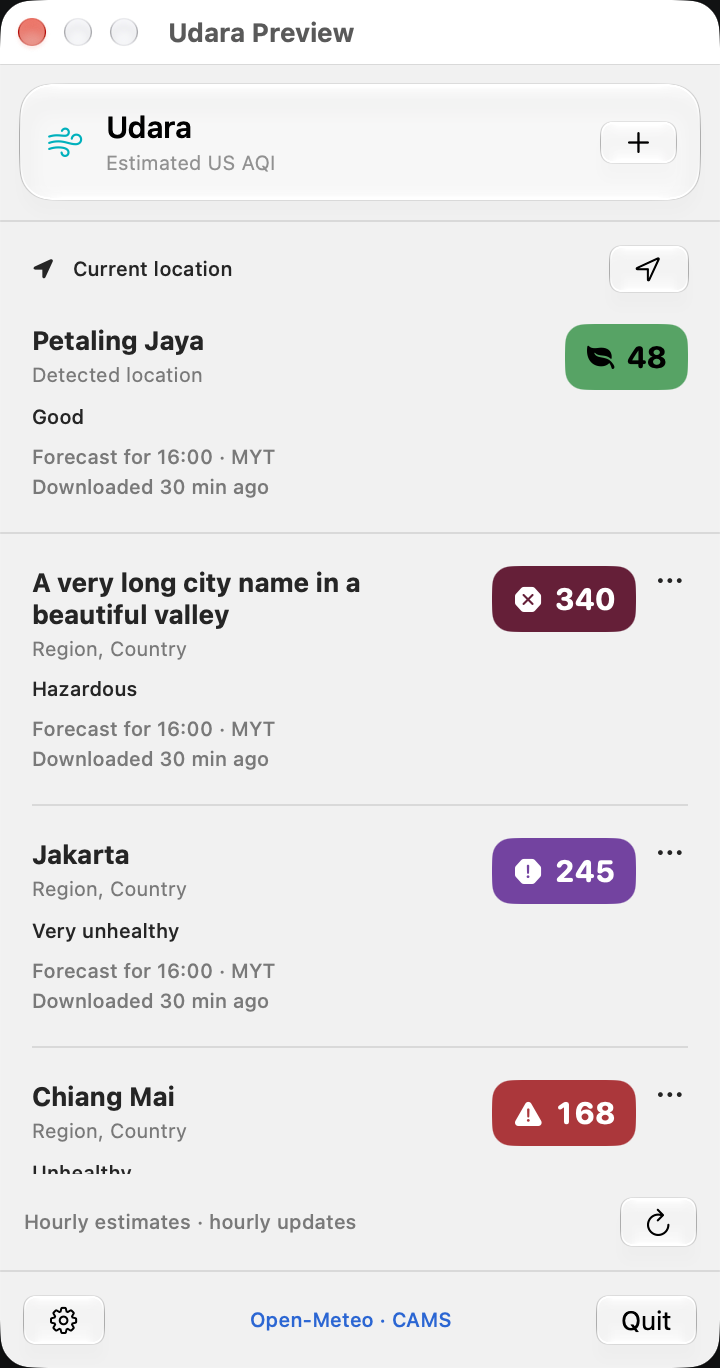
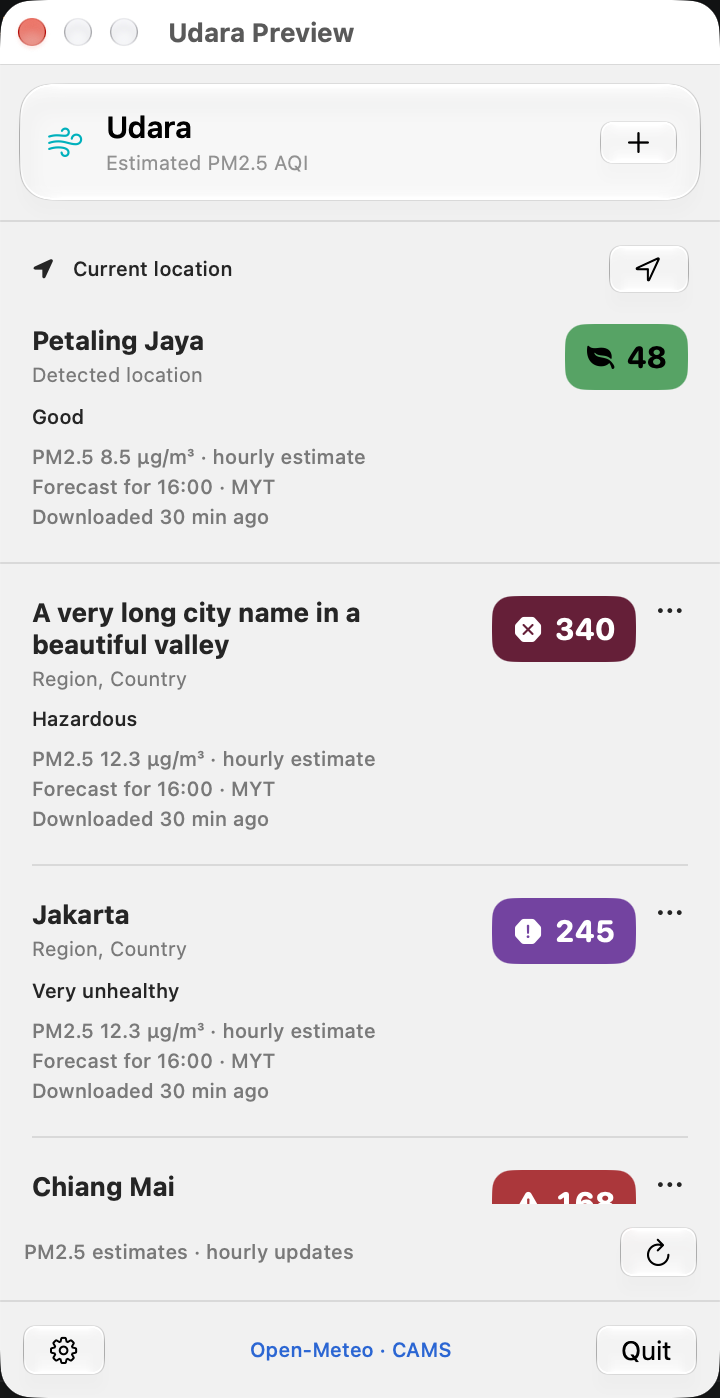
feat: focus on PM2.5 AQI and refine app presentation

diff --git a/Sources/UdaraApp/CitySearchView.swift b/Sources/UdaraApp/CitySearchView.swift
@@ -47,28 +47,41 @@ struct CitySearchView: View {
 struct SettingsContent: View {
     @Bindable var store: AppStore
     var body: some View {
-        VStack(alignment: .leading, spacing: 16) {
-            Label("Air quality, quietly close", systemImage: "wind").font(.headline)
-            Text("Udara shows model-estimated US AQI. Forecasts may differ from nearby monitoring stations.")
-            Picker("Menu bar icon", selection: Binding(
-                get: { store.menuBarIconStyle },
-                set: { style in Task { await store.setMenuBarIconStyle(style) } }
-            )) {
-                ForEach(MenuBarIconStyle.allCases, id: \.self) { style in
-                    Text(style.title).tag(style)
-                }
-            }.pickerStyle(.segmented).accessibilityIdentifier("menuBarIconStyle")
-            Text("The number shows the highest available AQI across your current location and saved cities.")
-                .foregroundStyle(.secondary)
-            LabeledContent("Downloads", value: "Every hour")
-            LabeledContent("Display", value: "Current hourly estimate")
-            Text("Cities and forecasts stay on this Mac. City searches and coordinates are sent to Open-Meteo; its servers receive your IP address. Current location is optional and needs macOS permission. Approximate coordinates also go to Apple to find the area name. Saved cities work without location access.")
-            Text("Data: Open-Meteo and CAMS ENSEMBLE / CAMS global forecasts, under the applicable attribution licences. Udara rounds AQI to whole numbers.")
-            Link("Data sources and attribution", destination: URL(string: "https://open-meteo.com/en/docs/air-quality-api")!)
-            Link("Open-Meteo terms and licence", destination: URL(string: "https://open-meteo.com/en/terms")!)
-            Text("Free, non-commercial use. Updates are installed through Homebrew or a replacement DMG from GitHub Releases.")
-            Text("Udara \(Bundle.main.infoDictionary?["CFBundleShortVersionString"] as? String ?? "—") (\(Bundle.main.infoDictionary?["CFBundleVersion"] as? String ?? "—"))")
-                .foregroundStyle(.secondary)
-        }.font(.caption).padding(16).frame(width: 360)
+        ScrollView {
+            VStack(alignment: .leading, spacing: 16) {
+                Label("Air quality, quietly close", systemImage: "wind").font(.headline)
+                Text("Udara shows model-estimated PM2.5 AQI. PM2.5 AQI uses a preceding 24-hour average; the concentration shown is an hourly estimate. Model forecasts may differ from nearby monitoring stations.")
+                    .fixedSize(horizontal: false, vertical: true)
+                Picker("Menu bar icon", selection: Binding(
+                    get: { store.menuBarIconStyle },
+                    set: { style in Task { await store.setMenuBarIconStyle(style) } }
+                )) {
+                    ForEach(MenuBarIconStyle.allCases, id: \.self) { style in
+                        Text(style.title).tag(style)
+                    }
+                }.pickerStyle(.segmented).accessibilityIdentifier("menuBarIconStyle")
+                Text("The number shows the highest available PM2.5 AQI across your current location and saved cities.")
+                    .fixedSize(horizontal: false, vertical: true)
+                    .foregroundStyle(.secondary)
+                LabeledContent("Downloads", value: "Every hour")
+                LabeledContent("Display", value: "PM2.5 AQI · US scale")
+                Text("Cities and forecasts stay on this Mac. City searches and coordinates are sent to Open-Meteo; its servers receive your IP address. Current location is optional and needs macOS permission. Approximate coordinates also go to Apple to find the area name. Saved cities work without location access.")
+                    .fixedSize(horizontal: false, vertical: true)
+                Text("Data: Open-Meteo and CAMS ENSEMBLE / CAMS global forecasts, under the applicable attribution licences. Udara rounds AQI to whole numbers.")
+                    .fixedSize(horizontal: false, vertical: true)
+                Link("Data sources and attribution", destination: URL(string: "https://open-meteo.com/en/docs/air-quality-api")!)
+                Link("Open-Meteo terms and licence", destination: URL(string: "https://open-meteo.com/en/terms")!)
+                Text("Free, non-commercial use. Updates are installed through Homebrew or a replacement DMG from GitHub Releases.")
+                    .fixedSize(horizontal: false, vertical: true)
+                Text("Udara \(Bundle.main.infoDictionary?["CFBundleShortVersionString"] as? String ?? "—") (\(Bundle.main.infoDictionary?["CFBundleVersion"] as? String ?? "—"))")
+                    .fixedSize(horizontal: false, vertical: true)
+                    .foregroundStyle(.secondary)
+            }
+            .font(.caption)
+            .lineLimit(nil)
+            .frame(maxWidth: .infinity, alignment: .leading)
+            .padding(16)
+        }
+        .frame(width: 360, height: 480)
     }
 }

diff --git a/Sources/UdaraApp/MenuView.swift b/Sources/UdaraApp/MenuView.swift
@@ -14,7 +14,7 @@ struct MenuView: View {
                     Image(systemName: "wind").font(.title2).foregroundStyle(.teal)
                     VStack(alignment: .leading, spacing: 2) {
                         Text("Udara").font(.title3.bold())
-                        Text("Estimated US AQI").font(.caption).foregroundStyle(.secondary)
+                        Text("Estimated PM2.5 AQI").font(.caption).foregroundStyle(.secondary)
                     }
                     Spacer()
                     if page != .cities {
@@ -103,14 +103,14 @@ struct MenuView: View {
                             if row.id != store.rows.last?.id { Divider().padding(.horizontal, 16) }
                         }
                     }
-                }.frame(height: min(CGFloat(store.rows.count) * 142, store.currentLocationRow == nil ? 360 : 320))
+                }.frame(height: min(CGFloat(store.rows.count) * 164, store.currentLocationRow == nil ? 360 : 320))
             }
             if let message = store.startupWarning ?? store.errorMessage {
                 Text(message).font(.caption).foregroundStyle(.red).padding(12).textSelection(.enabled)
             }
             HStack(alignment: .center) {
                 VStack(alignment: .leading, spacing: 3) {
-                    Text(store.isRefreshing ? "Checking forecasts…" : "Hourly estimates · hourly updates")
+                    Text(store.isRefreshing ? "Checking forecasts…" : "PM2.5 estimates · hourly updates")
                     if let next = store.nextDownload {
                         Text("Next check \(relativeDate(next, to: store.now))")
                     }
@@ -139,26 +139,42 @@ struct CityRowView: View {
                 }
                 Spacer(minLength: 4)
                 AQIBadge(reading: status.reading)
-                if removable {
-                Menu {
-                    Button("Remove city", role: .destructive, action: remove)
-                } label: { Image(systemName: "ellipsis") }
-                    .menuStyle(.borderlessButton).menuIndicator(.hidden).fixedSize().frame(width: 18)
-                    .accessibilityLabel("Actions for \(status.city.name)")
-                }
             }
             Text(status.reading?.category.title ?? "No estimate for this hour")
                 .font(.caption.weight(.medium))
-            VStack(alignment: .leading, spacing: 2) {
-                if status.reading != nil {
-                    Text("Forecast for \(hourLabel) · \(timezoneLabel)")
+            HStack(alignment: .bottom, spacing: 8) {
+                VStack(alignment: .leading, spacing: 2) {
+                    if let concentration = status.forecast?.sample(at: status.now)?.pm25Concentration {
+                        Text("PM2.5 \(concentration, format: .number.precision(.fractionLength(1))) µg/m³ · hourly estimate")
+                    }
+                    if status.reading != nil {
+                        Text("Forecast for \(hourLabel) · \(timezoneLabel)")
+                    }
+                    if let forecast = status.forecast {
+                        Text(forecast.fetchedAt > status.now ? "Download time is ahead of the system clock" : "Downloaded \(relativeDate(forecast.fetchedAt, to: status.now))")
+                    }
+                    if status.overdue { Text("Cached forecast · update overdue").foregroundStyle(.orange) }
+                    if let retry { Text(retry.message).foregroundStyle(.secondary) }
+                }.font(.caption2).foregroundStyle(.secondary)
+                    .frame(maxWidth: .infinity, alignment: .leading)
+                if removable {
+                    Menu {
+                        Button("Remove city", role: .destructive, action: remove)
+                    } label: {
+                        Image(systemName: "ellipsis")
+                            .font(.system(size: 13, weight: .semibold))
+                            .foregroundStyle(.secondary)
+                            .frame(width: 28, height: 28)
+                            .background(.quaternary, in: RoundedRectangle(cornerRadius: 8))
+                            .contentShape(RoundedRectangle(cornerRadius: 8))
+                    }
+                    .menuStyle(.borderlessButton)
+                    .menuIndicator(.hidden)
+                    .fixedSize()
+                    .help("Actions for \(status.city.name)")
+                    .accessibilityLabel("Actions for \(status.city.name)")
                 }
-                if let forecast = status.forecast {
-                    Text(forecast.fetchedAt > status.now ? "Download time is ahead of the system clock" : "Downloaded \(relativeDate(forecast.fetchedAt, to: status.now))")
-                }
-                if status.overdue { Text("Cached forecast · update overdue").foregroundStyle(.orange) }
-                if let retry { Text(retry.message).foregroundStyle(.secondary) }
-            }.font(.caption2).foregroundStyle(.secondary)
+            }
         }.padding(16)
         .accessibilityElement(children: .contain)
     }

diff --git a/Tests/UdaraTests/DataTests.swift b/Tests/UdaraTests/DataTests.swift
@@ -5,14 +5,14 @@ import Testing
 struct DataTests {
     let now = Date(timeIntervalSince1970: 1_800_000_000)
     @Test func decoderRejectsMismatchedOrMissingCoverage() throws {
-        let bad = Data(#"{"hourly":{"time":[1800000000],"us_aqi":[]}}"#.utf8)
+        let bad = Data(#"{"hourly":{"time":[1800000000],"us_aqi_pm2_5":[]}}"#.utf8)
         #expect(throws: (any Error).self) { try OpenMeteoProvider.decodeForecast(bad, fetchedAt: now) }
-        let short = Data(#"{"hourly":{"time":[1800000000],"us_aqi":[55]}}"#.utf8)
+        let short = Data(#"{"hourly":{"time":[1800000000],"us_aqi_pm2_5":[55]}}"#.utf8)
         #expect(throws: (any Error).self) { try OpenMeteoProvider.decodeForecast(short, fetchedAt: now) }
     }
     @Test func decodingPreservesNullAndIgnoresAdditionalFields() throws {
         let times = (0..<48).map { 1_800_000_000 + $0 * 3600 }
-        let payload: [String: Any] = ["extra": 1, "hourly": ["time": times, "us_aqi": [NSNull()] + Array(repeating: 44, count: 47)]]
+        let payload: [String: Any] = ["extra": 1, "hourly": ["time": times, "us_aqi_pm2_5": [NSNull()] + Array(repeating: 44, count: 47)]]
         let forecast = try OpenMeteoProvider.decodeForecast(JSONSerialization.data(withJSONObject: payload), fetchedAt: now)
         #expect(forecast.reading(at: now) == nil)
         #expect(forecast.reading(at: now.addingTimeInterval(3600))?.value == 44)
@@ -66,4 +66,53 @@ actor CountingProvider: AirQualityProvider {
 }
 struct FailingProvider: AirQualityProvider {
     func forecast(for city: SavedCity) async throws -> CityForecast { throw ProviderError.http(429, retryAfter: 120) }
+}
+
+struct PM25MigrationTests {
+    @Test func overallAQICannotBeRelabeledAsPM25() async throws {
+        let now = Date(timeIntervalSince1970: 1_800_000_000)
+        let legacyJSON = Data(#"{"fetchedAt":821692800,"samples":[{"time":821692800,"value":202}]}"#.utf8)
+        let legacy = try JSONDecoder().decode(CityForecast.self, from: legacyJSON)
+        #expect(legacy.reading(at: now) == nil)
+        let persistence = MemoryPersistence()
+        let retry = RetryState(failures: 1, nextAttempt: now.addingTimeInterval(120), message: "Wait")
+        try persistence.save(RepositorySnapshot(cities: [city()], forecasts: [1: legacy], scheduled: [1: now.addingTimeInterval(3600)], retries: [1: retry], menuBarIconStyle: .dynamic))
+        let repository = try ForecastRepository(provider: FailingProvider(), persistence: persistence, clock: FixedClock(now: now))
+        let state = await repository.snapshot()
+        #expect(state.cities.count == 1)
+        #expect(state.forecasts.isEmpty)
+        #expect(state.scheduled.isEmpty)
+        #expect(state.retries[1]?.nextAttempt == retry.nextAttempt)
+        #expect(state.menuBarIconStyle == .dynamic)
+    }
+    @Test func decodesPM25InsteadOfOverallAndConcentrationIsSeparate() throws {
+        let now = Date(timeIntervalSince1970: 1_800_000_000)
+        let payload: [String: Any] = ["hourly": ["time": [1800000000,1800003600,1800007200], "us_aqi": [202,202,202], "us_aqi_pm2_5": [185,184,183], "pm2_5": [67.1,60.0,55.0]]]
+        let forecast = try OpenMeteoProvider.decodeForecast(JSONSerialization.data(withJSONObject: payload), fetchedAt: now)
+        #expect(forecast.reading(at: now)?.value == 185)
+        #expect(forecast.sample(at: now)?.pm25Concentration == 67.1)
+    }
+}
+
+struct PM25PayloadTests {
+    @Test func refusesOverallOnlyAndMismatchedConcentrations() throws {
+        let now = Date(timeIntervalSince1970: 1_800_000_000)
+        for hourly: [String: Any] in [
+            ["time": [1800000000,1800003600,1800007200], "us_aqi": [202,202,202]],
+            ["time": [1800000000,1800003600,1800007200], "us_aqi_pm2_5": [185,184,183], "pm2_5": [67.1]],
+        ] {
+            let data = try JSONSerialization.data(withJSONObject: ["hourly": hourly])
+            #expect(throws: (any Error).self) { try OpenMeteoProvider.decodeForecast(data, fetchedAt: now) }
+        }
+    }
+    @Test func newCacheKeepsMetricAndInvalidConcentrationIsUnavailable() throws {
+        let now = Date(timeIntervalSince1970: 1_800_000_000)
+        let payload: [String: Any] = ["hourly": ["time": [1800000000,1800003600,1800007200], "us_aqi_pm2_5": [185,184,183], "pm2_5": [-1,NSNull(),0]]]
+        let forecast = try OpenMeteoProvider.decodeForecast(JSONSerialization.data(withJSONObject: payload), fetchedAt: now)
+        let restored = try JSONDecoder().decode(CityForecast.self, from: JSONEncoder().encode(forecast))
+        #expect(restored.metric == "us_aqi_pm2_5")
+        #expect(restored.reading(at: now)?.value == 185)
+        #expect(restored.sample(at: now)?.pm25Concentration == nil)
+        #expect(restored.sample(at: now.addingTimeInterval(7200))?.pm25Concentration == 0)
+    }
 }

diff --git a/Sources/UdaraCore/OpenMeteoProvider.swift b/Sources/UdaraCore/OpenMeteoProvider.swift
@@ -45,18 +45,19 @@ struct OpenMeteoProvider: CitySearchProvider, AirQualityProvider {
     }
     func forecast(for city: SavedCity) async throws -> CityForecast {
         let data = try await request(host: "air-quality-api.open-meteo.com", path: "/v1/air-quality", items: [
-            "latitude": String(city.latitude), "longitude": String(city.longitude), "hourly": "us_aqi",
+            "latitude": String(city.latitude), "longitude": String(city.longitude), "hourly": "us_aqi_pm2_5,pm2_5",
             "forecast_days": "3", "timezone": "GMT", "timeformat": "unixtime"
         ])
         return try Self.decodeForecast(data, fetchedAt: clock.now)
     }
     static func decodeForecast(_ data: Data, fetchedAt: Date) throws -> CityForecast {
         struct Response: Decodable {
-            struct Hourly: Decodable { let time: [Double]; let us_aqi: [Double?] }
+            struct Hourly: Decodable { let time: [Double]; let us_aqi_pm2_5: [Double?]; let pm2_5: [Double?]? }
             let hourly: Hourly
         }
         let hourly = try JSONDecoder().decode(Response.self, from: data).hourly
-        guard hourly.time.count == hourly.us_aqi.count, !hourly.time.isEmpty,
+        guard hourly.time.count == hourly.us_aqi_pm2_5.count, !hourly.time.isEmpty,
+              hourly.pm2_5 == nil || hourly.pm2_5?.count == hourly.time.count,
               hourly.time.allSatisfy({ $0.isFinite && $0.truncatingRemainder(dividingBy: 3600) == 0 }),
               zip(hourly.time, hourly.time.dropFirst()).allSatisfy({ $1 - $0 == 3600 })
         else { throw ProviderError.invalidResponse }
@@ -65,8 +66,10 @@ struct OpenMeteoProvider: CitySearchProvider, AirQualityProvider {
         guard hourly.time.first! <= currentHour, hourly.time.last! >= currentHour + 2 * 3600 else {
             throw ProviderError.invalidResponse
         }
-        return CityForecast(fetchedAt: fetchedAt, samples: zip(hourly.time, hourly.us_aqi).map {
-            HourlyAQISample(time: Date(timeIntervalSince1970: $0), value: $1)
+        return CityForecast(fetchedAt: fetchedAt, samples: hourly.time.indices.map { index in
+            let concentration = hourly.pm2_5?[index]
+            let validConcentration = concentration.flatMap { $0.isFinite && $0 >= 0 ? $0 : nil }
+            return HourlyAQISample(time: Date(timeIntervalSince1970: hourly.time[index]), value: hourly.us_aqi_pm2_5[index], pm25Concentration: validConcentration)
         })
     }
     func search(_ query: String) async throws -> [SavedCity] {

diff --git a/Sources/UdaraApp/PreviewFixtures.swift b/Sources/UdaraApp/PreviewFixtures.swift
@@ -10,11 +10,11 @@ import SwiftUI
             SavedCity(id: $0.offset, name: $0.element, region: "Region", country: "Country", latitude: 3.139, longitude: 101.6869, timezone: "Asia/Kuala_Lumpur")
         }
         var state = RepositorySnapshot(cities: cities, forecasts: Dictionary(uniqueKeysWithValues: cities.map {
-            ($0.id, CityForecast(fetchedAt: date.addingTimeInterval(overdue ? -7200 : -1800), samples: unavailable ? [] : [.init(time: date, value: values[$0.id])]))
+            ($0.id, CityForecast(fetchedAt: date.addingTimeInterval(overdue ? -7200 : -1800), samples: unavailable ? [] : [.init(time: date, value: values[$0.id], pm25Concentration: 12.3)]))
         }))
         if !empty {
             state.currentLocation = SavedCity(id: -1, name: "Petaling Jaya", region: "", country: "Detected location", latitude: 3.11, longitude: 101.61, timezone: "Asia/Kuala_Lumpur")
-            state.forecasts[-1] = CityForecast(fetchedAt: date.addingTimeInterval(-1800), samples: [.init(time: date, value: 48)])
+            state.forecasts[-1] = CityForecast(fetchedAt: date.addingTimeInterval(-1800), samples: [.init(time: date, value: 48, pm25Concentration: 8.5)])
         }
         let persistence = MemoryPersistence()
         try! persistence.save(state)

diff --git a/Sources/UdaraCore/Models.swift b/Sources/UdaraCore/Models.swift
@@ -55,6 +55,7 @@ struct AQIReading: Equatable, Sendable {
 struct HourlyAQISample: Codable, Sendable {
     let time: Date
     let value: Double?
+    var pm25Concentration: Double? = nil
 }
 enum ForecastRefreshPolicy {
     static let interval: TimeInterval = 3600
@@ -64,9 +65,15 @@ enum ForecastRefreshPolicy {
 struct CityForecast: Codable, Sendable {
     let fetchedAt: Date
     let samples: [HourlyAQISample]
-    func reading(at date: Date) -> AQIReading? {
+    // Optional for decoding old caches; absent/other metrics must never be relabeled as PM2.5.
+    var metric: String? = "us_aqi_pm2_5"
+    func sample(at date: Date) -> HourlyAQISample? {
+        guard metric == "us_aqi_pm2_5" else { return nil }
         let hour = floor(date.timeIntervalSince1970 / 3600) * 3600
-        return samples.first { $0.time.timeIntervalSince1970 == hour }.flatMap { AQIReading($0.value) }
+        return samples.first { $0.time.timeIntervalSince1970 == hour }
+    }
+    func reading(at date: Date) -> AQIReading? {
+        sample(at: date).flatMap { AQIReading($0.value) }
     }
     func isOverdue(at date: Date) -> Bool {
         date < fetchedAt || date.timeIntervalSince(fetchedAt) >= ForecastRefreshPolicy.interval

diff --git a/Sources/UdaraCore/ForecastRepository.swift b/Sources/UdaraCore/ForecastRepository.swift
@@ -18,6 +18,11 @@ actor ForecastRepository {
         self.provider = provider; self.searchProvider = searchProvider; self.persistence = persistence
         self.clock = clock; self.jitter = jitter
         state = try persistence.load() ?? RepositorySnapshot()
+        let incompatible = state.forecasts.filter { $0.value.metric != "us_aqi_pm2_5" }.map(\.key)
+        for id in incompatible {
+            state.forecasts[id] = nil
+            state.scheduled[id] = nil
+        }
         // Normalize legacy daily deadlines without clearing forecasts, cities or server cooldowns.
         for (id, forecast) in state.forecasts {
             let earliest = forecast.fetchedAt.addingTimeInterval(ForecastRefreshPolicy.interval)

diff --git a/Sources/UdaraApp/UdaraApp.swift b/Sources/UdaraApp/UdaraApp.swift
@@ -30,7 +30,7 @@ import SwiftUI
         } label: {
             Image(nsImage: MenuBarGlyph.image(reading: store.highest, style: store.menuBarIconStyle))
                 .accessibilityIdentifier("udaraMenuBar")
-                .accessibilityLabel(store.highest.map { "Udara, estimated US AQI \($0.value), \($0.category.title)" } ?? "Udara, AQI unavailable")
+                .accessibilityLabel(store.highest.map { "Udara, estimated PM2.5 AQI \($0.value), \($0.category.title)" } ?? "Udara, AQI unavailable")
         }.menuBarExtraStyle(.window)
     }
 }

diff --git a/Sources/UdaraApp/AQIStyle.swift b/Sources/UdaraApp/AQIStyle.swift
@@ -27,7 +27,7 @@ struct AQIBadge: View {
         .foregroundStyle(reading?.category.foreground ?? .secondary)
         .background(reading?.category.color ?? Color.secondary.opacity(0.12), in: RoundedRectangle(cornerRadius: 10))
         .accessibilityElement(children: .ignore)
-        .accessibilityLabel(reading.map { "Estimated US AQI \($0.value), \($0.category.title)" } ?? "AQI unavailable")
+        .accessibilityLabel(reading.map { "Estimated PM2.5 AQI \($0.value), \($0.category.title)" } ?? "AQI unavailable")
     }
 }
 

diff --git a/Tests/UdaraUITests/UdaraUITests.swift b/Tests/UdaraUITests/UdaraUITests.swift
@@ -9,6 +9,7 @@ import XCTest
         app.activate()
         XCTAssertTrue(app.staticTexts["A little clarity, city by city"].waitForExistence(timeout: 10))
         XCTAssertTrue(app.staticTexts["Current location"].exists)
+        XCTAssertTrue(app.staticTexts["Estimated PM2.5 AQI"].exists)
         XCTAssertTrue(app.buttons["Enable location"].exists)
         app.buttons["Add your first city"].click()
         let search = app.textFields["citySearch"]

diff --git a/Tests/UdaraTests/ResilienceTests.swift b/Tests/UdaraTests/ResilienceTests.swift
@@ -75,6 +75,7 @@ struct ResilienceTests {
         #expect(query.contains(.init(name: "forecast_days", value: "3")))
         #expect(query.contains(.init(name: "timezone", value: "GMT")))
         #expect(!query.contains { $0.name == "apikey" })
+        #expect(query.contains(.init(name: "hourly", value: "us_aqi_pm2_5,pm2_5")))
     }
     @Test func httpDateRetryAfter() {
         let formatter = DateFormatter()

diff --git a/docs/VERIFICATION.md b/docs/VERIFICATION.md
@@ -123,3 +123,31 @@ The complete local suite passed before publishing to `exnano/udara`: 33 core tes
 - `brew install --cask exnano/tap/udara` installed the public 1.3.1 app into `/Applications`. Installed version, strict signature, staple and Gatekeeper checks passed, and the app launched. Previous manually installed app retained in `build/releases/1.3.1/previous/Udara.app`; user data preserved.
 - GitHub-hosted CI currently fails at toolchain selection because its macOS runner lacks `/Applications/Xcode_27.0.app`. This release was built and tested locally; no hosted-CI pass is claimed.
 - Clean-machine browser/offline launch, macOS 26 and Intel runtime verification, and Homebrew cross-version upgrade/uninstall acceptance remain outstanding. The install here was on the development Mac.
+
+
+## PM2.5 focus — 1.4.0 (6), unreleased
+
+- Provider now requests `us_aqi_pm2_5,pm2_5`; all AQI readings, sorting and menu bar values use PM2.5-specific US AQI. The hourly concentration is displayed separately in µg/m³, with its different averaging period explained in Settings.
+- Forecast payloads carry a metric marker. Legacy missing/overall metric caches cannot supply a PM2.5 reading; migration drops incompatible payloads/schedules while preserving cities, location, icon settings and retry deadlines.
+- 37 Swift Testing tests passed in 11 suites (SwiftPM and native Xcode), 24 Python tooling tests passed, and all 3 UI workflows passed. Result: `build/PM25Tests.xcresult`.
+- Added coverage for legacy cache migration, preference/cooldown preservation, PM2.5-versus-overall decoding, missing/malformed concentrations, rejecting overall-only responses and persistence of the new metric marker.
+- Debug and universal Release builds passed; Release executable contains x86_64 and arm64. Build version verified as 1.4.0 (6).
+- The compiled production provider was exercised directly against Open-Meteo for Shah Alam at 2026-09-16T11:48:29Z: 72 samples, metric `us_aqi_pm2_5`, current AQI 185, hourly concentration 67.1 µg/m³. This confirms data selection, not monitoring-station accuracy.
+- Captured updated appearance/location-state fixtures and visually inspected the light render with the PM2.5 heading and concentration row.
+- No public release or Homebrew update was performed for this change, and the existing installed 1.3.1 app was not replaced. The separate local WAQI assessment files remain intact.
+
+### Saved-city action placement
+
+- Moved the action menu to the bottom-right of each saved-city row with a rounded 28-point control, preserving the accessible city-specific label and destructive removal action.
+- Debug build passed for 1.4.0 (6); `git diff --check` passed.
+- Fixture rendering was attempted twice; assertions reached screenshot capture, but Xcode failed with “Failed to create screenshot. Image creation failed.” Results: `build/RowActionsTests.xcresult` and `build/RowActionsRetryTests.xcresult`. Updated layout screenshots are not verified; existing preview images predate this placement change.
+
+### Settings text wrapping
+
+- Settings now uses a 480-point scroll viewport and gives explanatory text its full wrapped height, keeping the menu header and footer outside the scrolling content.
+- Debug build and both existing Settings navigation/icon UI workflows passed (2 tests, zero failures): `build/SettingsWrapTests.xcresult`. `git diff --check` passed. These checks verify compilation and interaction; a new screenshot inspection was not completed.
+
+### Icon Composer application icon
+
+- Added `Udara.icon` to the app resource build phase and set the primary app icon name to `Udara` for Debug and Release, replacing the legacy ICNS reference.
+- Debug and universal Release builds passed. Release Info.plist names `Udara` for both icon keys; compiled `Udara.icns` and `Assets.car` are present. Visually inspected the generated Debug icon PNG.
